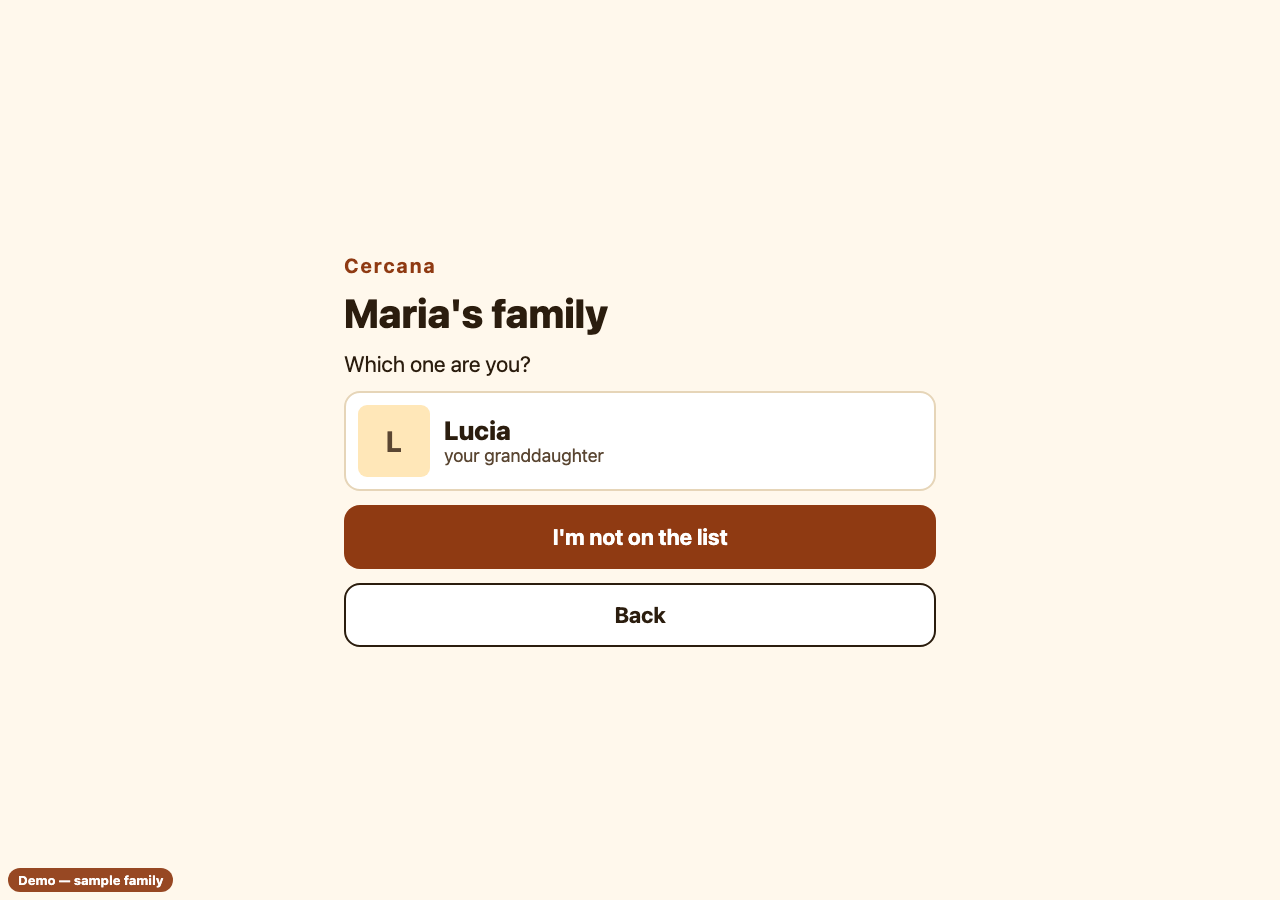
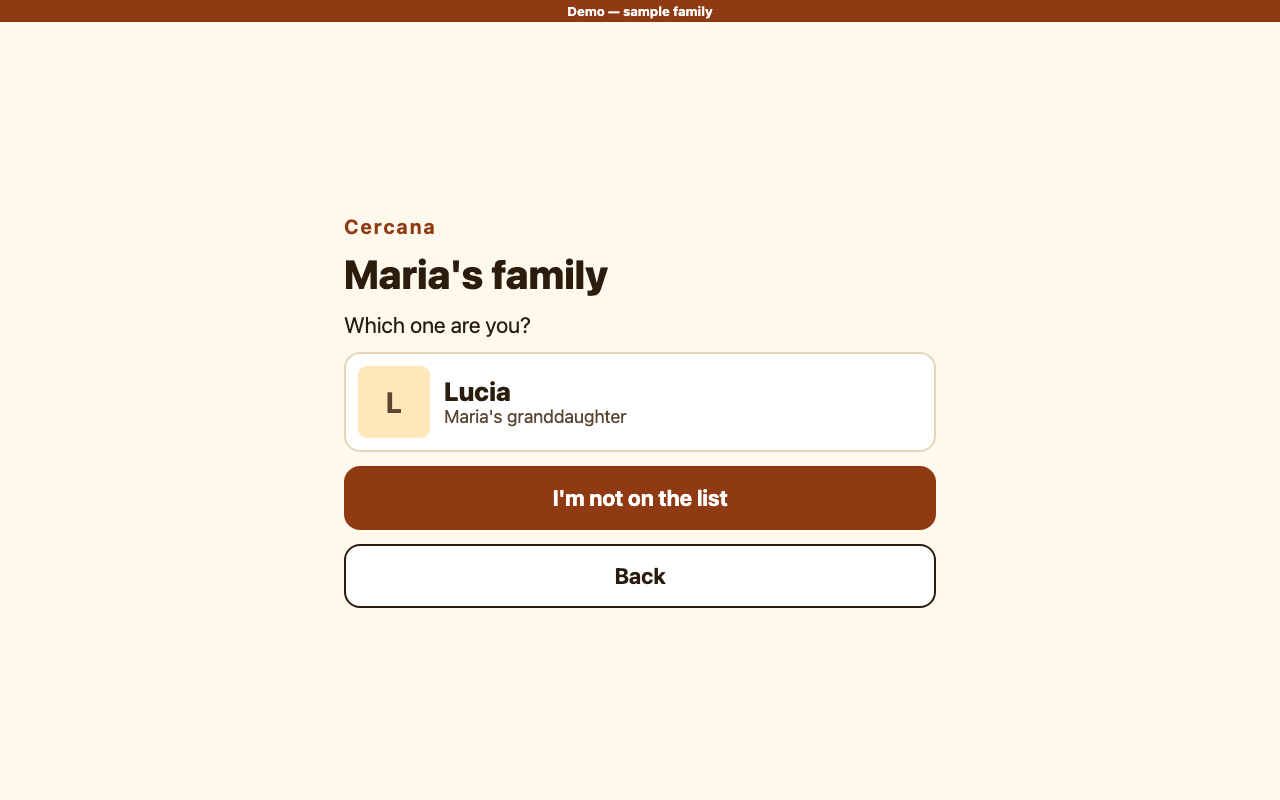
fix: ?demo=join in any build, in-flow demo ribbon, third-person relation on family screens

diff --git a/src/screens/PeopleTab.tsx b/src/screens/PeopleTab.tsx
@@ -3,17 +3,17 @@ import { Pressable, StyleSheet, Text, View } from 'react-native';
 import type { Person } from '../lib/types';
 import { setPersonRole, transferLead } from '../lib/api';
 import { ROLE_LABEL, can, type Actor } from '../lib/permissions';
-import { birthdayToInput } from '../lib/util';
+import { birthdayToInput, familyRelation } from '../lib/util';
 import { Avatar, BigButton, ErrorText } from '../components/ui';
 import { confirmAction } from '../components/confirm';
 import { colors } from '../theme';
 import { PersonForm } from './PersonForm';
 
-type Props = { circleId: string; actor: Actor; people: Person[]; onChanged: () => void };
+type Props = { circleId: string; patientName: string; actor: Actor; people: Person[]; onChanged: () => void };
 
 const target = (p: Person) => ({ id: p.id, role: p.role, claimed: p.claimed });
 
-export function PeopleTab({ circleId, actor, people, onChanged }: Props) {
+export function PeopleTab({ circleId, patientName, actor, people, onChanged }: Props) {
   const [editing, setEditing] = useState<Partial<Person> | null>(null);
   const [rolesFor, setRolesFor] = useState<string | null>(null); // person whose Roles panel is open
   const [error, setError] = useState<string | null>(null);
@@ -71,7 +71,9 @@ export function PeopleTab({ circleId, actor, people, onChanged }: Props) {
                   <Text style={[s.badge, p.role !== 'member' && s.badgeOn]}>{ROLE_LABEL[p.role]}</Text>
                 </View>
                 <Text style={s.sub}>
-                  {[p.relation, p.phone, p.birthday ? birthdayToInput(p.birthday) : null].filter(Boolean).join(' · ')}
+                  {[familyRelation(p.relation, patientName), p.phone, p.birthday ? birthdayToInput(p.birthday) : null]
+                    .filter(Boolean)
+                    .join(' · ')}
                 </Text>
                 {!p.claimed ? <Text style={s.hint}>Profile only, not using the app</Text> : null}
               </View>

diff --git a/src/lib/util.test.ts b/src/lib/util.test.ts
@@ -2,7 +2,7 @@ import test from 'node:test';
 import assert from 'node:assert/strict';
 import {
   generateCode, isValidCode, normalizeCode, whatsappUrl, telUrl,
-  normalizeBirthdayInput, birthdayToInput, spokenPing, urlHint, uuidv4, inviteUrl, parseJoinUrl,
+  normalizeBirthdayInput, birthdayToInput, spokenPing, urlHint, uuidv4, inviteUrl, parseJoinUrl, familyRelation,
 } from './util.ts';
 
 test('generateCode: 6 chars, no 0/O/1/I', () => {
@@ -65,6 +65,16 @@ test('invite link round-trips', () => {
   assert.equal(parseJoinUrl('/joined/K7M4QX'), null);
   assert.equal(parseJoinUrl('/'), null);
   assert.equal(parseJoinUrl(null), null);
+});
+
+test('familyRelation: third person for family screens', () => {
+  assert.equal(familyRelation('your son', 'Maria'), "Maria's son");
+  assert.equal(familyRelation('Your granddaughter', 'Maria'), "Maria's granddaughter");
+  assert.equal(familyRelation('  your   old neighbour ', 'Maria'), "Maria's old neighbour");
+  assert.equal(familyRelation('the doctor', 'Maria'), 'the doctor'); // not "your …": left as typed
+  assert.equal(familyRelation('yourself', 'Maria'), 'yourself');
+  assert.equal(familyRelation('', 'Maria'), null);
+  assert.equal(familyRelation(null, 'Maria'), null);
 });
 
 test('spokenPing', () => {

diff --git a/src/components/DemoRibbon.tsx b/src/components/DemoRibbon.tsx
@@ -2,19 +2,19 @@ import React from 'react';
 import { StyleSheet, Text, View } from 'react-native';
 import { colors } from '../theme';
 
-/** Small, non-interactive pill so nobody mistakes sample data for a real family. */
+/**
+ * Thin strip at the very top so nobody mistakes sample data for a real family. It sits in the
+ * layout flow (not floating), so it reserves its own space and never covers content.
+ */
 export function DemoRibbon() {
   return (
-    <View pointerEvents="none" style={s.pill} accessibilityLabel="Demo, sample family">
+    <View style={s.bar} accessibilityLabel="Demo, sample family">
       <Text style={s.text}>Demo — sample family</Text>
     </View>
   );
 }
 
 const s = StyleSheet.create({
-  pill: {
-    position: 'absolute', left: 8, bottom: 8, zIndex: 200, backgroundColor: colors.terracotta,
-    borderRadius: 14, paddingHorizontal: 10, paddingVertical: 4, opacity: 0.92,
-  },
+  bar: { backgroundColor: colors.terracotta, alignItems: 'center', justifyContent: 'center', paddingVertical: 3 },
   text: { color: colors.white, fontSize: 13, fontWeight: '700' },
 });

diff --git a/src/screens/Join.tsx b/src/screens/Join.tsx
@@ -2,6 +2,7 @@ import React, { useEffect, useState } from 'react';
 import { ActivityIndicator, Pressable, ScrollView, StyleSheet, Text, View } from 'react-native';
 import { claimPerson, findCircleByCode, listPeople, savePerson } from '../lib/api';
 import { pickAndUploadPhoto } from '../lib/media';
+import { familyRelation } from '../lib/util';
 import type { Circle, Person, Session } from '../lib/types';
 import { Avatar, BigButton, ErrorText, Field } from '../components/ui';
 import { colors, type } from '../theme';
@@ -76,7 +77,7 @@ export function Join({ code, onDone, onCancel }: Props) {
                 <Avatar uri={p.photo_url} name={p.name} size={72} />
                 <View style={{ flex: 1 }}>
                   <Text style={s.name}>{p.name}</Text>
-                  {p.relation ? <Text style={s.sub}>{p.relation}</Text> : null}
+                  {p.relation ? <Text style={s.sub}>{familyRelation(p.relation, circle.patient_name)}</Text> : null}
                 </View>
               </Pressable>
               {picked === p.id ? (

diff --git a/src/lib/config.ts b/src/lib/config.ts
@@ -2,12 +2,12 @@
 const url = process.env.EXPO_PUBLIC_SUPABASE_URL;
 const anonKey = process.env.EXPO_PUBLIC_SUPABASE_ANON_KEY;
 
-/** Web only: `?demo=patient` / `?demo=family` in the URL switches demo mode on for that page load. */
+/** Web only: `?demo=patient|family|join` in the URL switches demo mode on for that page load. */
 function demoFromUrl(): boolean {
   try {
     const search = (globalThis as { location?: { search?: string } }).location?.search;
-    const role = search ? new URLSearchParams(search).get('demo') : null;
-    return role === 'patient' || role === 'family';
+    const kind = search ? new URLSearchParams(search).get('demo') : null;
+    return kind === 'patient' || kind === 'family' || kind === 'join';
   } catch {
     return false;
   }

diff --git a/src/lib/util.ts b/src/lib/util.ts
@@ -75,6 +75,17 @@ export function uuidv4(random: () => number = Math.random): string {
   });
 }
 
+/**
+ * Relations are stored from the patient's view ("your son"). Family-facing screens show them
+ * third-person: "Maria's son". Anything not starting with "your " is returned as typed.
+ */
+export function familyRelation(relation: string | null | undefined, patientName: string): string | null {
+  const r = relation?.trim();
+  if (!r) return null;
+  const m = /^your\s+(.+)$/i.exec(r);
+  return m ? `${patientName}'s ${m[1]}` : r;
+}
+
 export const DEFAULT_APP_URL = 'https://cercana.pro7ocol.com';
 
 /** https://cercana.pro7ocol.com/join/K7M4QX */

diff --git a/src/screens/FamilyHome.tsx b/src/screens/FamilyHome.tsx
@@ -62,7 +62,7 @@ export function FamilyHome({ session, actor, people, error, version, reload, rel
         ))}
       </View>
       <ErrorText message={error} />
-      {tab === 'People' && <PeopleTab circleId={session.circleId} actor={actor} people={people} onChanged={reload} />}
+      {tab === 'People' && <PeopleTab circleId={session.circleId} patientName={session.patientName} actor={actor} people={people} onChanged={reload} />}
       {tab === 'Calendars' && (
         <CalendarsTab circleId={session.circleId} actor={actor} people={people} onSynced={reloadEvents} />
       )}
